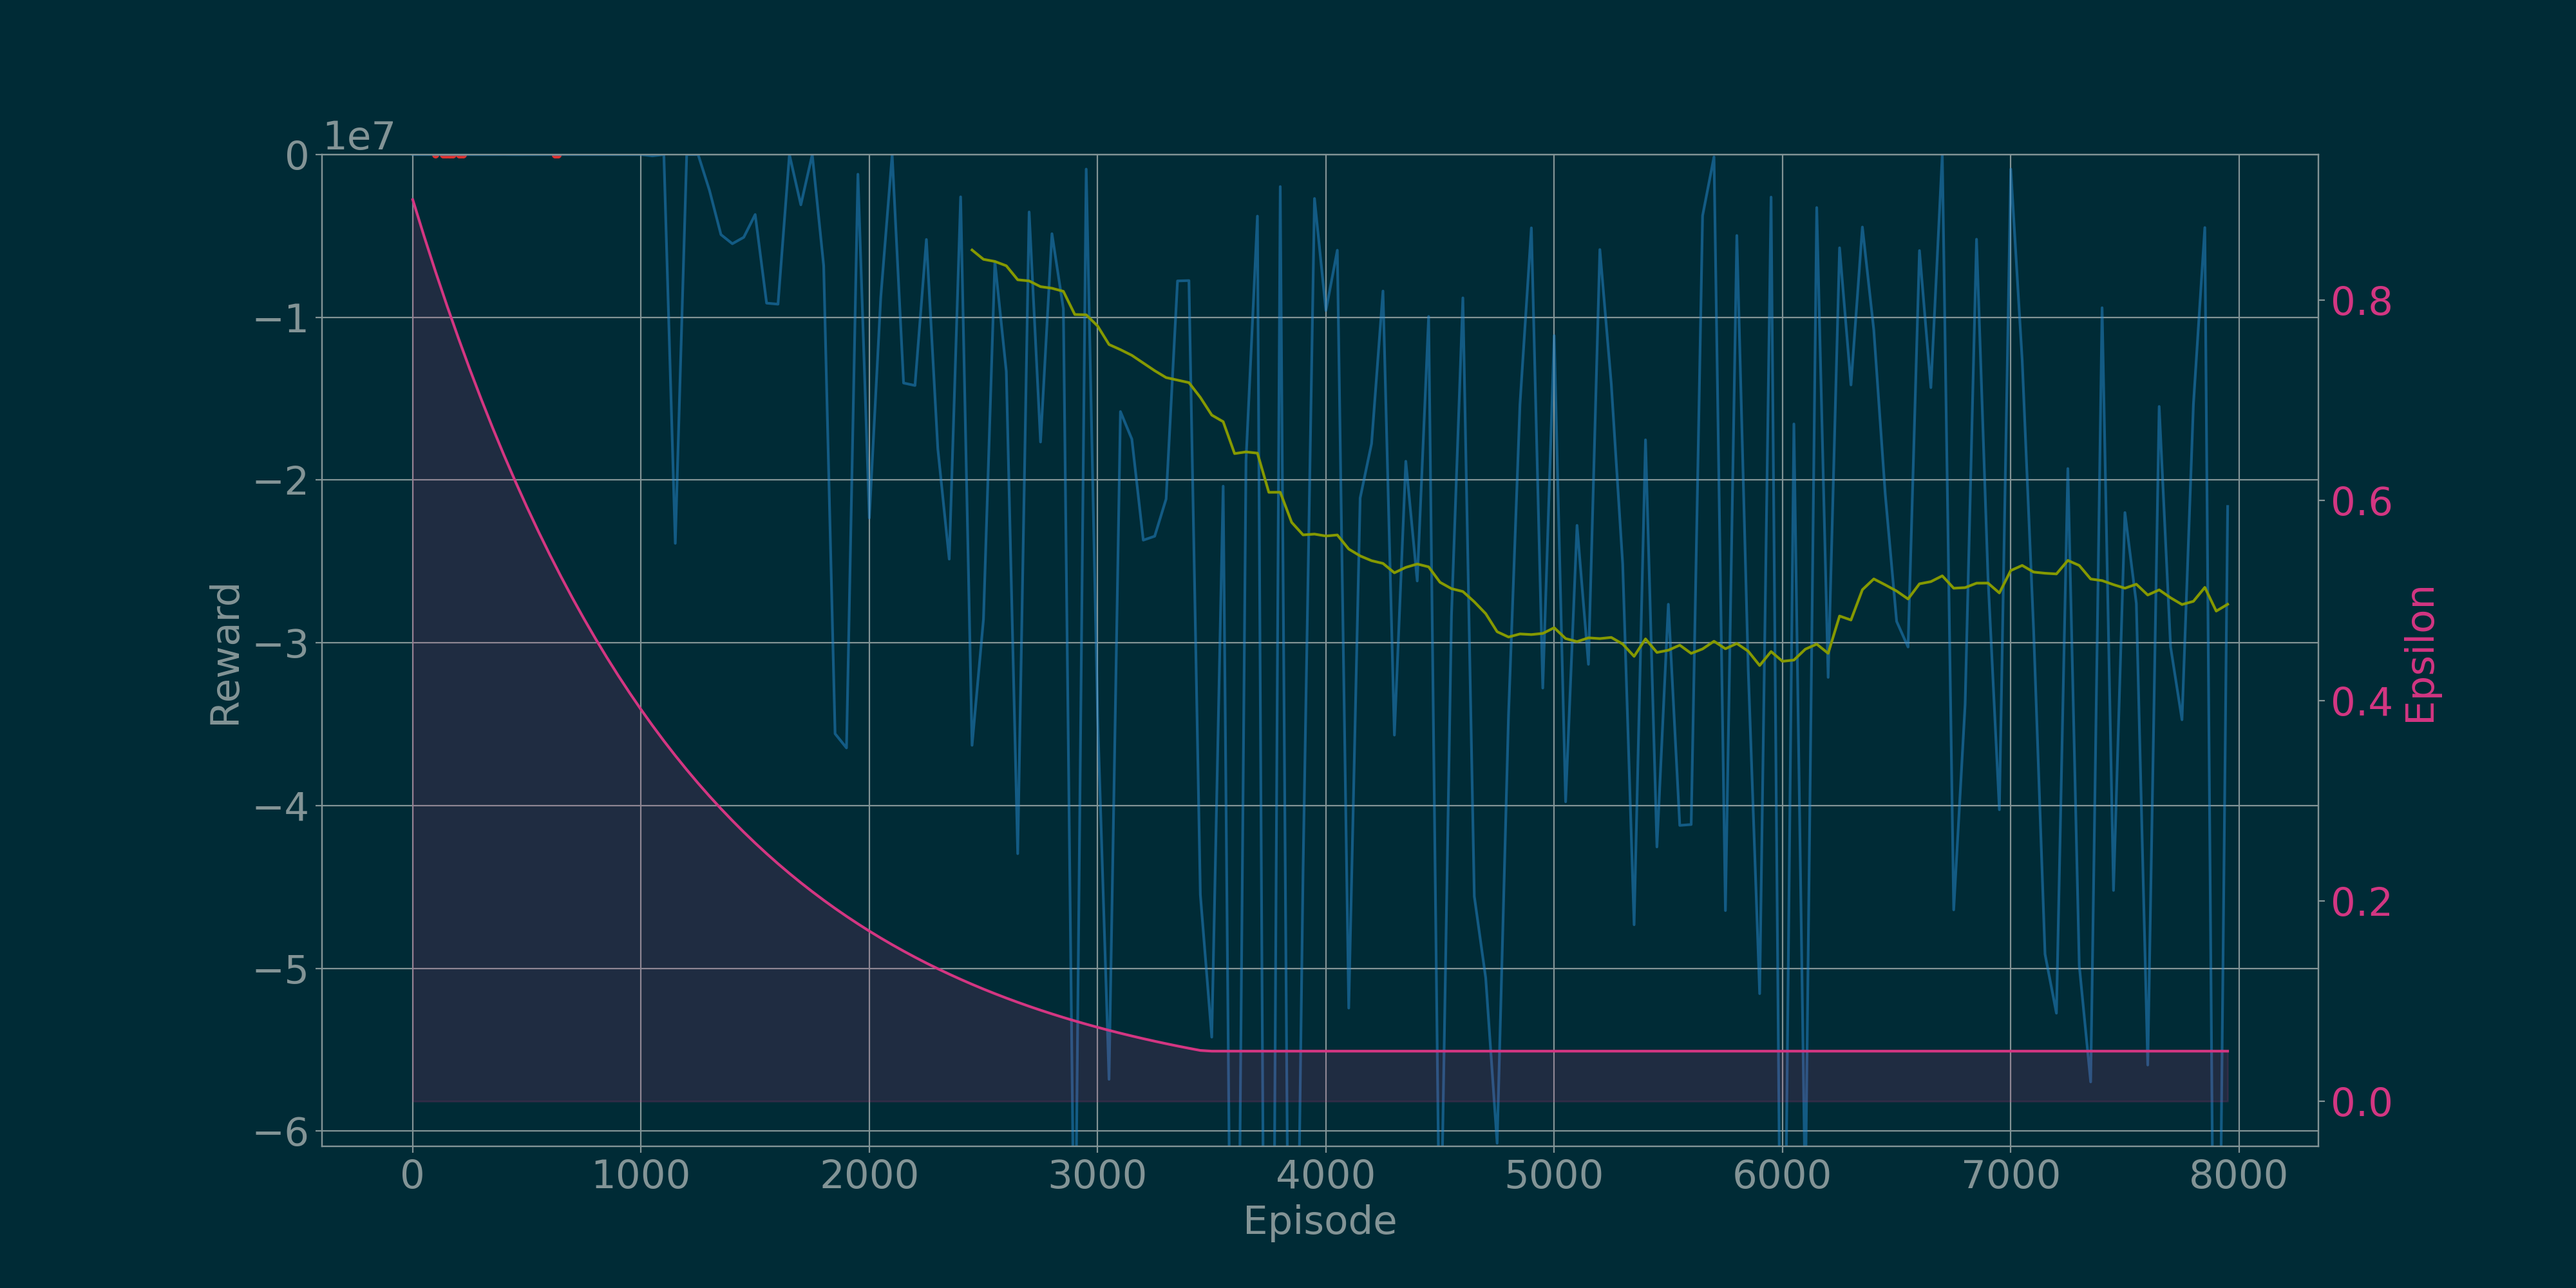
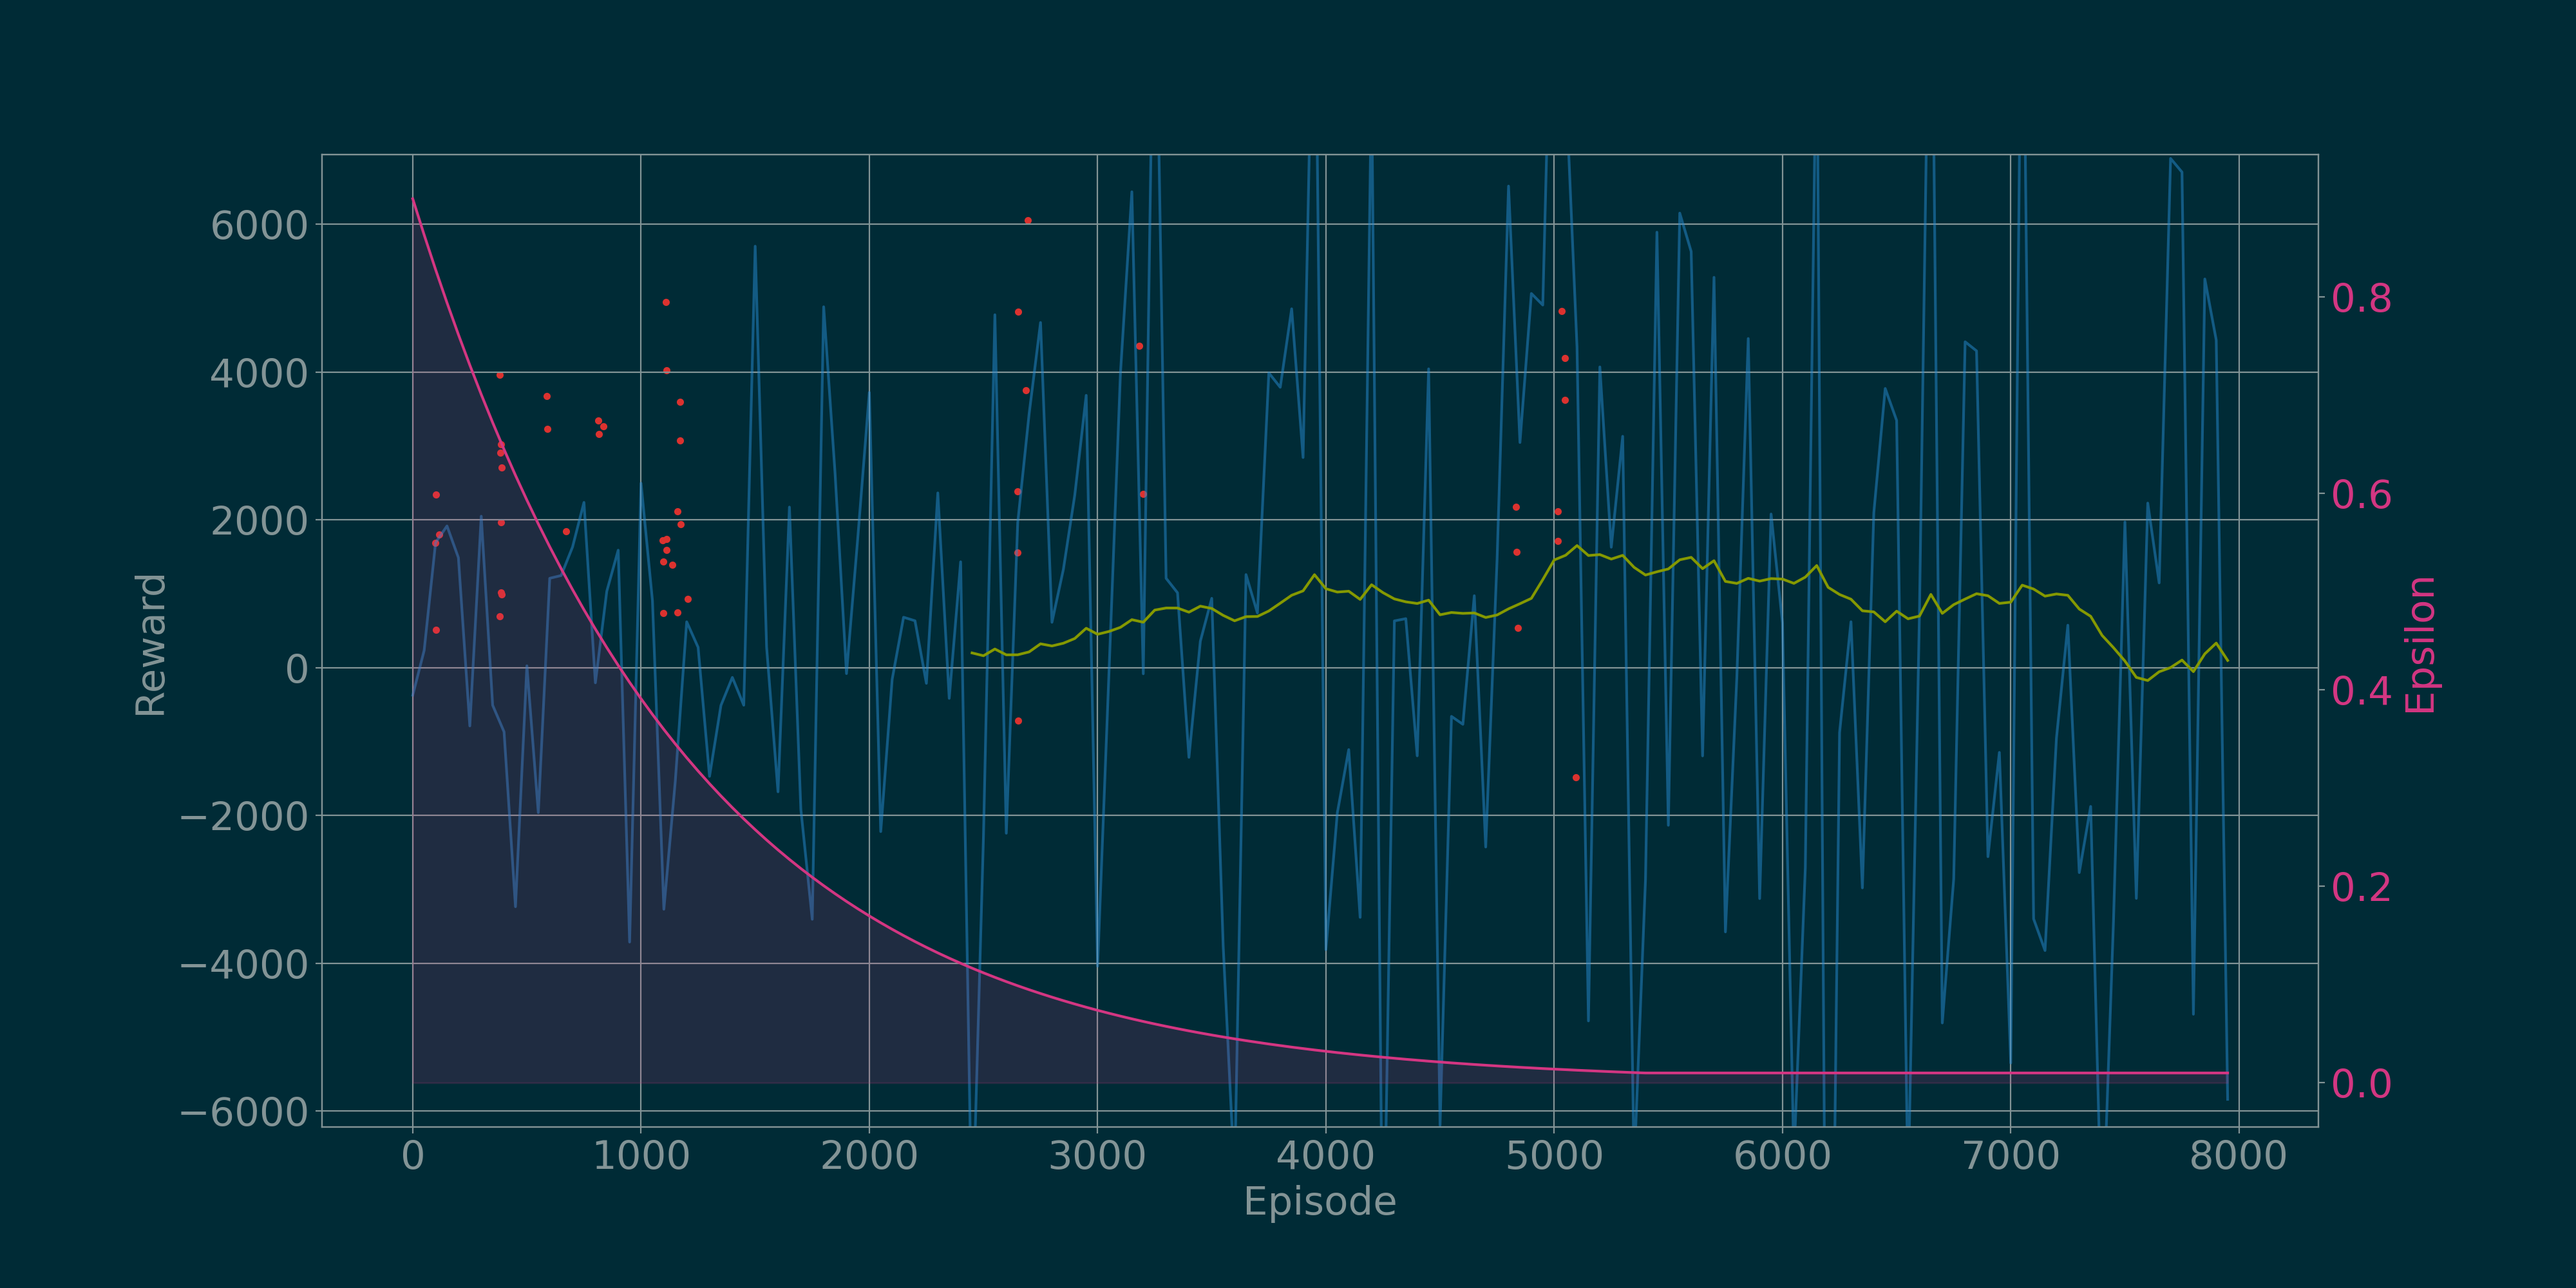
training for constant epsilon + pngs rectification

diff --git a/train.py b/train.py
@@ -13,7 +13,7 @@ PATH = "./episodes"
 
 timestamp = str(
     pd.Timestamp.now()
-    ).replace(' ', '_').replace(':', '-').split('.')
+    ).replace(' ', '_').replace(':', '-').split('.')[0]
 
 reward_penalty = 10_000
 env = MarketGym(PATH, vwap_reward_penalty(reward_penalty))
@@ -25,21 +25,21 @@ weights = f'./weights/{model_name}_{timestamp}.pt'
 
 alpha = 1e-2  # 5e-4
 gamma = 0.999
-epsilon = 0.9
+epsilon = 0.05
 
 episodes = 8000
 batch_size = 64
 target_update = 4
 
-discount = 1-1/(episodes*0.15)
-epsilon_min = 0.05
+# discount = 1-1/(episodes*0.15)
+# epsilon_min = 0.05
 
 
-def adaptive(self, episode):
-    self.epsilon = max(epsilon_min, min(1.0, self.epsilon*discount))
+# def adaptive(self, episode):
+#     self.epsilon = max(epsilon_min, min(1.0, self.epsilon*discount))
 
 
-agent = DQN(env, alpha, gamma, epsilon, adaptive=adaptive,
+agent = DQN(env, alpha, gamma, epsilon,  # adaptive=adaptive,
             double=True, save=weights, rewards_mean=100,
             n_episodes_to_save=50)
 
@@ -48,8 +48,9 @@ info = {'horizon': str(env.H), 'volume': str(env.V),
         'reward_function': 'vwap_reward_penalty',
         'reward_penalty': reward_penalty,
         'algo': {'name': model_name, 'alpha': alpha, 'gamma': gamma,
-                 'epsilon_ini': epsilon, 'epsilon_min': epsilon_min,
-                 'discount': discount, 'double': True},
+                 'epsilon_ini': epsilon,  # 'epsilon_min': epsilon_min,
+                 # 'discount': discount,
+                 'double': True},
         'training': {'episodes': episodes, 'batch_size': batch_size,
                      'target_update': target_update}}
 with open(f'./weights/info_{model_name}_{timestamp}.txt', 'w') as f:
@@ -59,4 +60,4 @@ stats = agent.train(env, episodes, batch_size, target_update)
 with open(f'./figures/{model_name}_{timestamp}.pkl', 'wb') as f:
     pickle.dump(stats, f)
 
-plot_train_stats(stats, save='./figures/DDQN', rolling=50)
+plot_train_stats(stats, save=f'./figures/{model_name}_{timestamp}', rolling=50)
